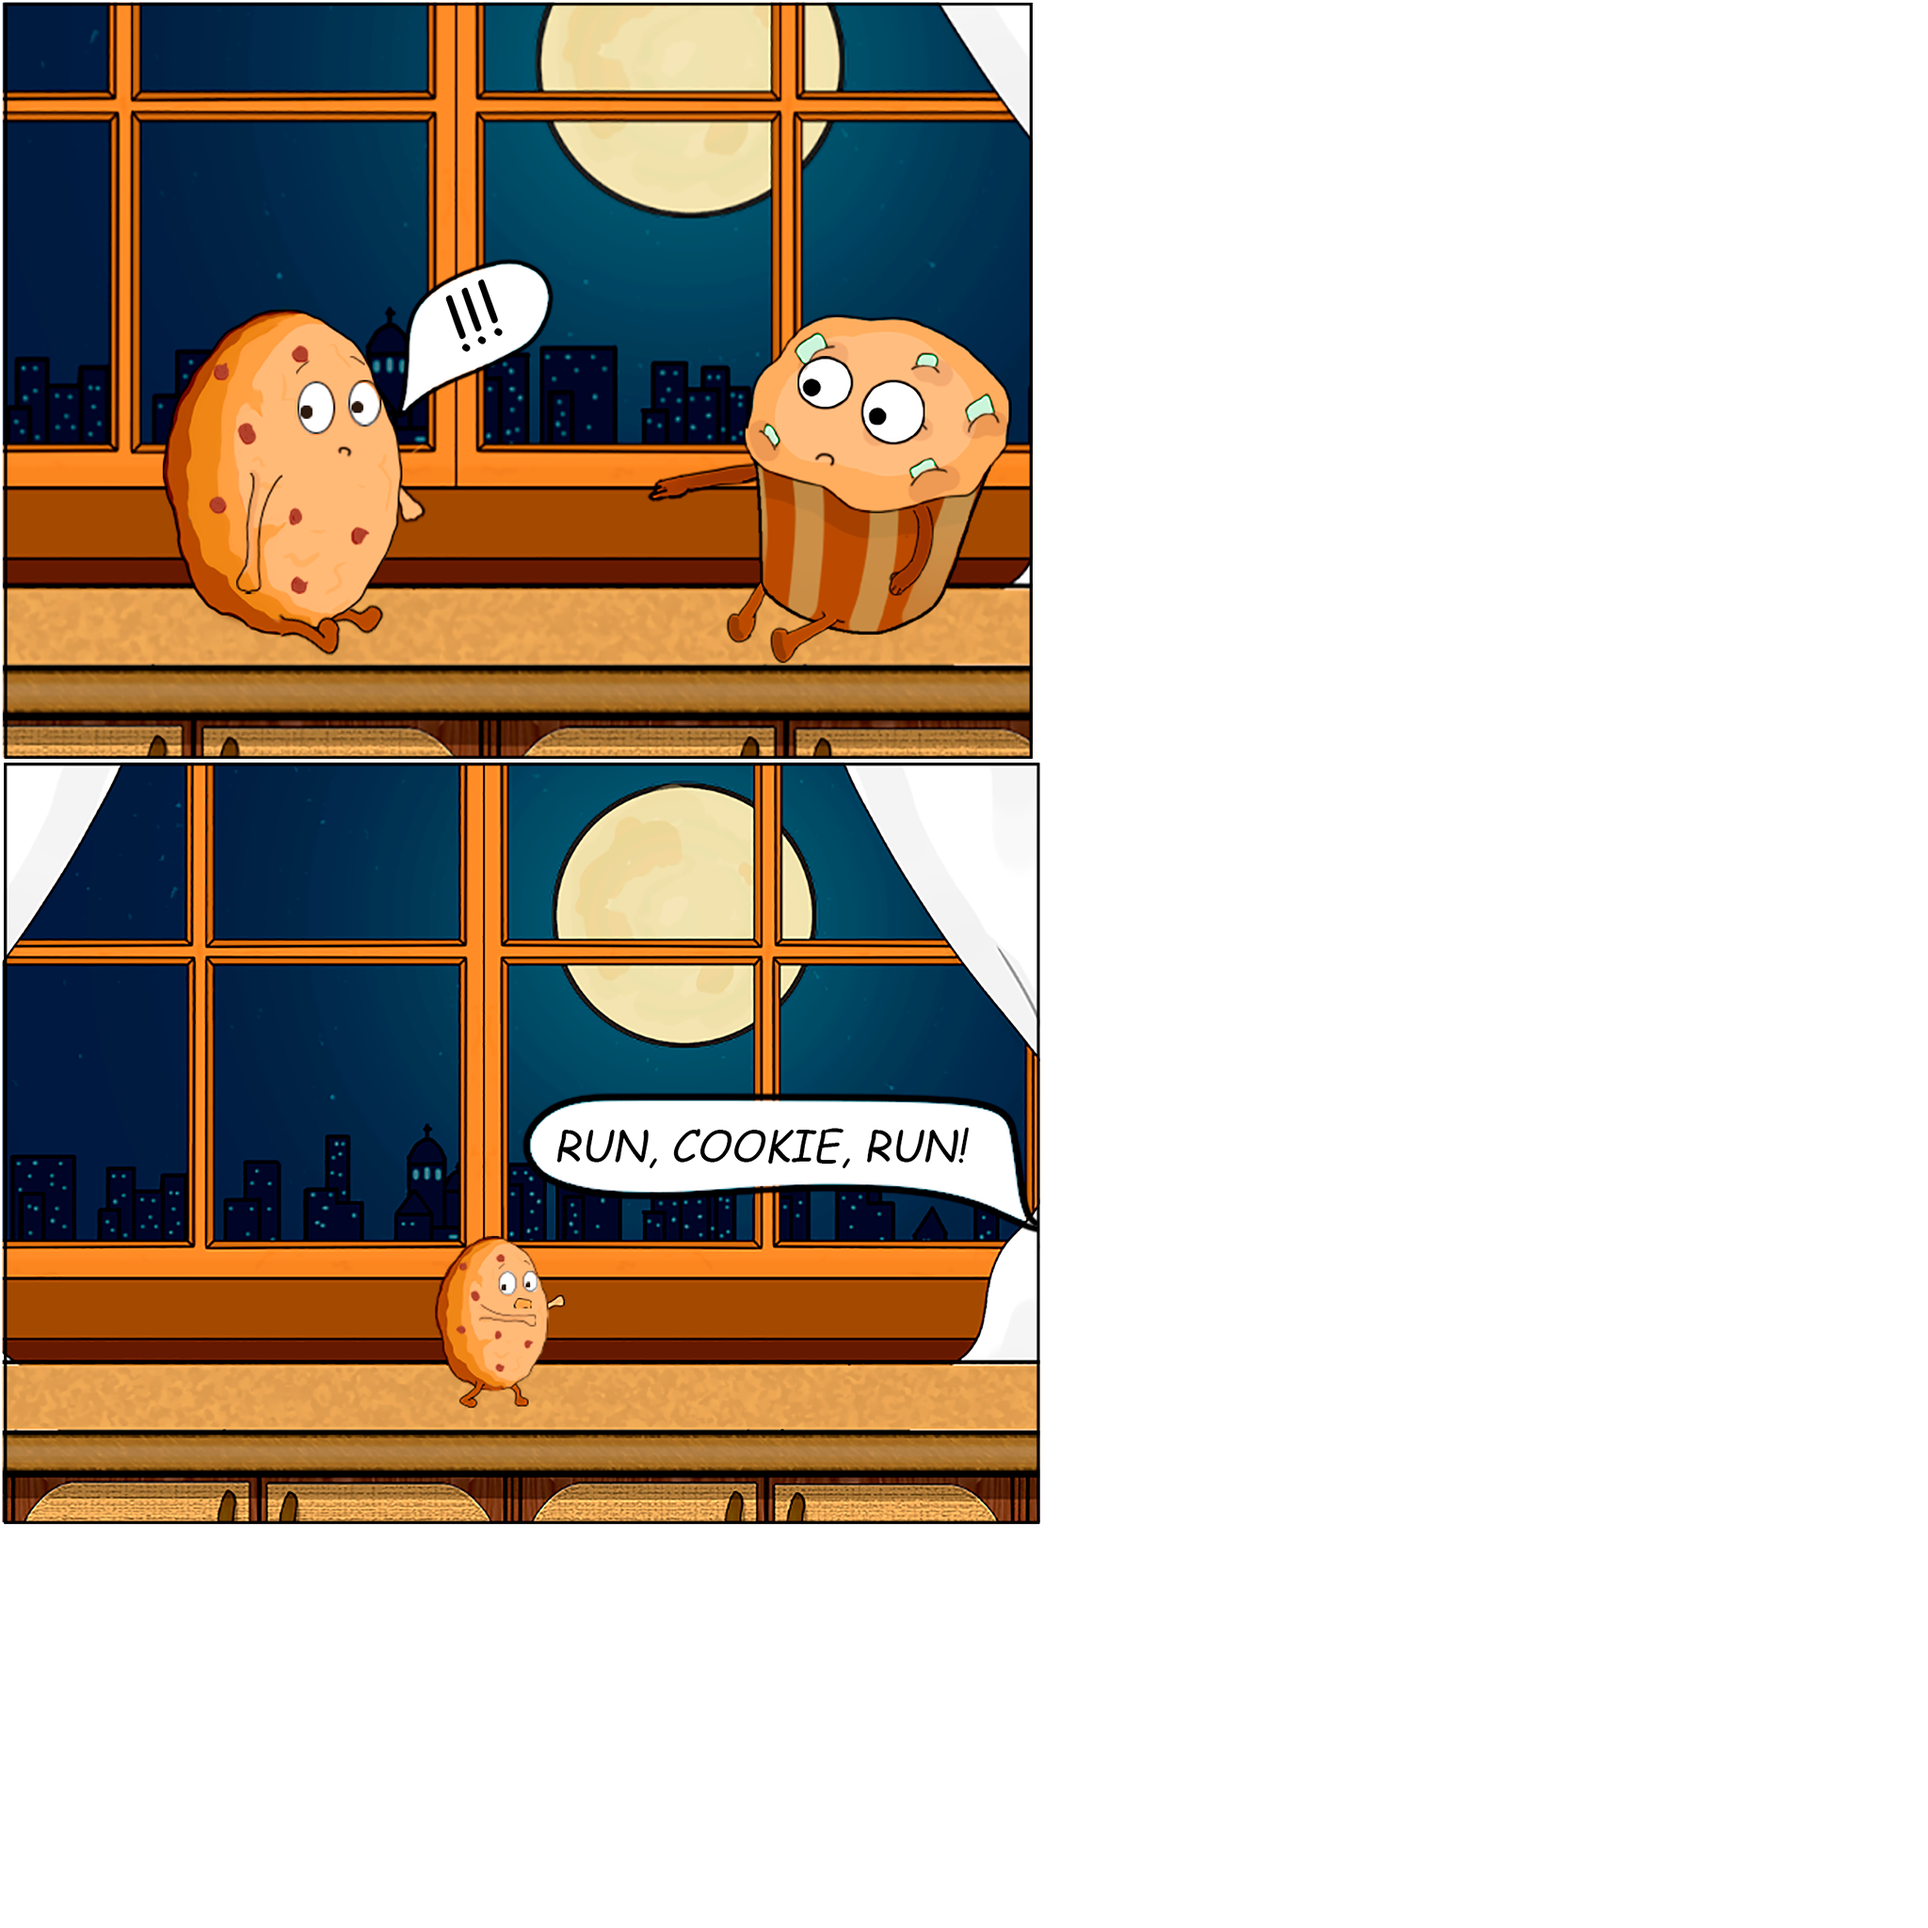
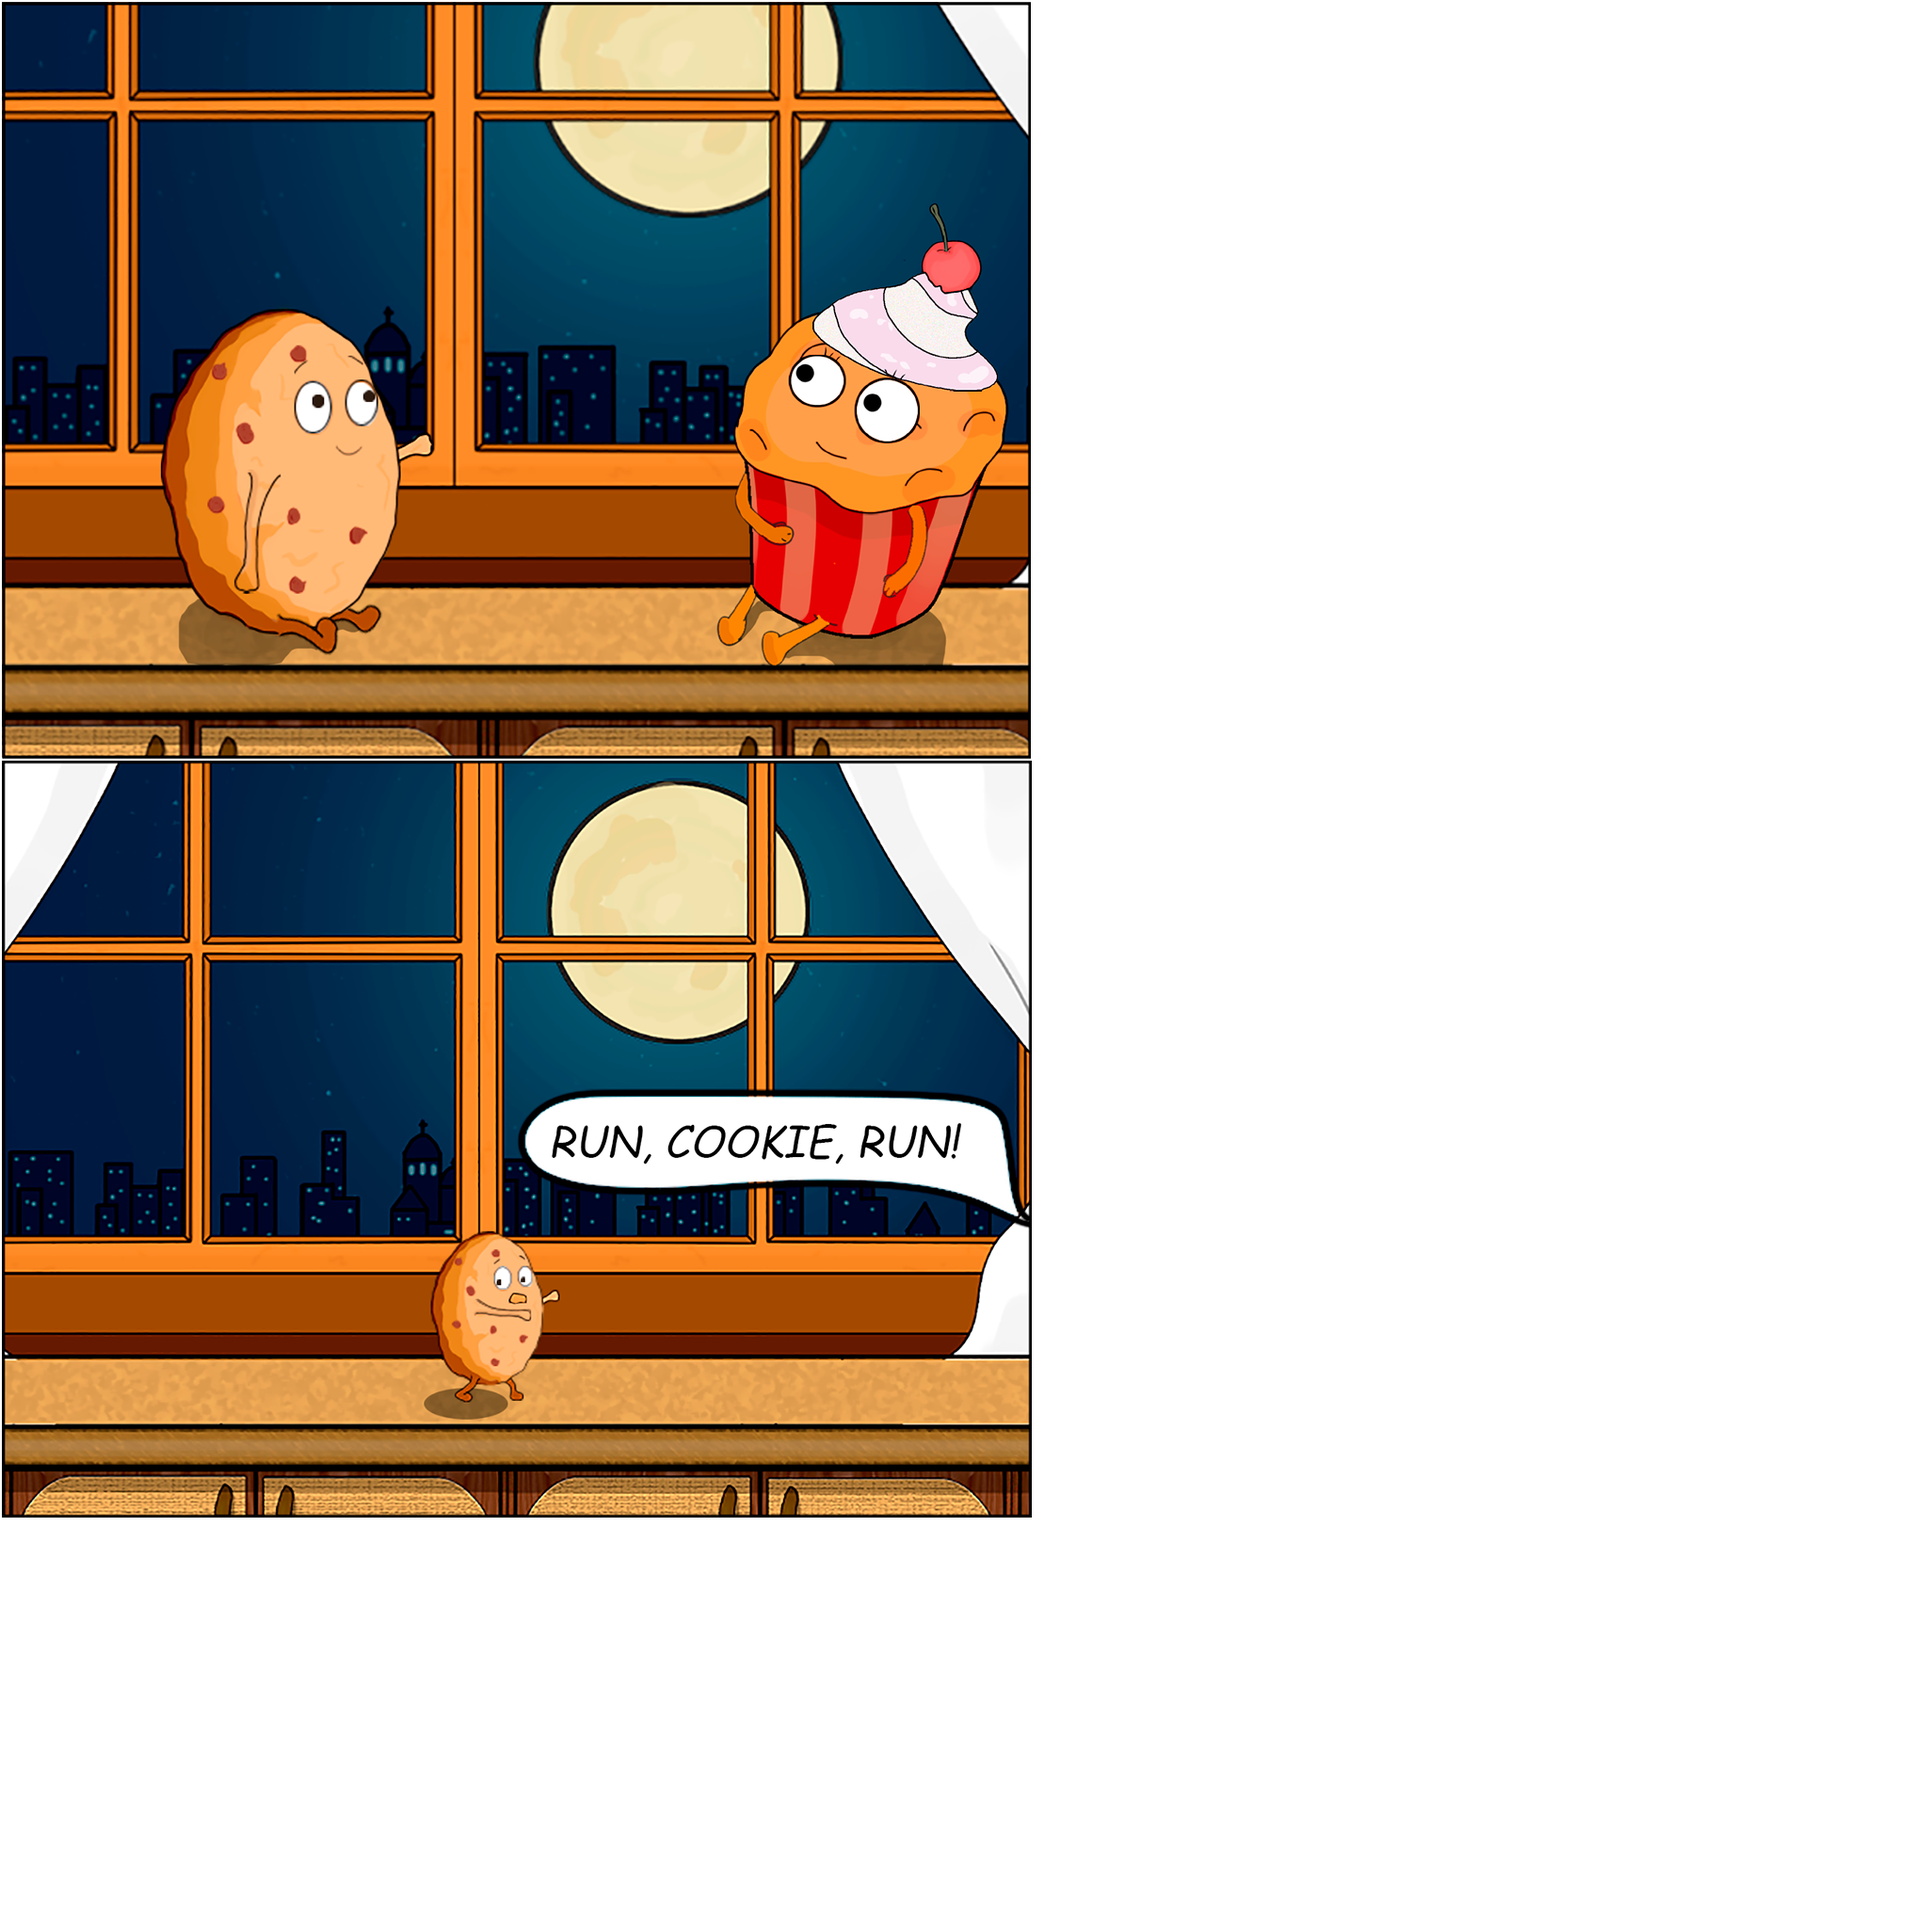
(feature) improve comics frames, delete background image

Changed region(s): [[0.0, 0.3438, 0.5625, 0.8125], [0.0, 0.0, 0.5312, 0.3438], [0.0938, 0.25, 0.1875, 0.3438]]

diff --git a/core/src/com/mygdx/game/actors/comics/ComicsFrame.kt b/core/src/com/mygdx/game/actors/comics/ComicsFrame.kt
@@ -6,6 +6,7 @@ import com.badlogic.gdx.graphics.Color
 import com.badlogic.gdx.graphics.Texture
 import com.badlogic.gdx.graphics.g2d.Batch
 import com.badlogic.gdx.math.Interpolation
+import com.badlogic.gdx.scenes.scene2d.Touchable
 import com.badlogic.gdx.scenes.scene2d.actions.Actions
 import com.mygdx.game.data.Descriptors
 import com.mygdx.game.api.Animated
@@ -13,9 +14,10 @@ import com.mygdx.game.api.AnimationType
 import com.mygdx.game.api.GameActor
 import com.mygdx.game.data.Assets
 
-abstract class Frame(manager: AssetManager) : GameActor(), Animated {
+abstract class ComicsFrame(manager: AssetManager) : GameActor(), Animated {
     protected val atlas = manager.get(Descriptors.comics)!!
     protected var region = atlas.findRegion(Assets.ComicsAtlas.FRAME_1)!!
+    private var shadow =  manager.get(Descriptors.environment).findRegion(Assets.EnvironmentAtlas.BLACK)
     protected val finalScale = 0.62f
     protected val framePadding = 30f
 
@@ -28,10 +30,15 @@ abstract class Frame(manager: AssetManager) : GameActor(), Animated {
         y = (Gdx.graphics.height - height) / 2f
         scaleX = 0.2F
         scaleY = 0.2F
+        color.a = 0f
+        touchable = Touchable.disabled
     }
 
     override fun draw(batch: Batch?, parentAlpha: Float) {
-        batch!!.color = Color.WHITE
+        batch!!.setColor(color.r, color.g, color.b, color.a)
+        batch.draw(shadow, 0f, 0f, Gdx.graphics.width.toFloat(), Gdx.graphics.height.toFloat())
+        batch.setColor(color.r, color.g, color.b, 1f)
+        batch.color = Color.WHITE
         batch.draw(region, x,  y, 0f, 0f, width, height, scaleX, scaleY, rotation)
     }
 
@@ -44,12 +51,14 @@ abstract class Frame(manager: AssetManager) : GameActor(), Animated {
                        Actions.parallel(
                                Actions.scaleTo(1f, 1f, 1f, Interpolation.smooth),
                                Actions.moveTo(x, y, 0.3f, Interpolation.smooth),
-                               Actions.repeat(3, Actions.rotateTo(360f, 0.5f))
+                               Actions.repeat(3, Actions.rotateTo(360f, 0.5f)),
+                               Actions.alpha(0.8f, 1f)
                        ),
                         Actions.delay(1f),
                         Actions.parallel(
                                 Actions.scaleTo(finalScale, finalScale, animDuration),
-                                Actions.moveTo(getFinalMoveX(), getFinalMoveY(), animDuration)
+                                Actions.moveTo(getFinalMoveX(), getFinalMoveY(), animDuration),
+                                Actions.alpha(0f, animDuration)
                         )
                )
             }

diff --git a/core/src/com/mygdx/game/screens/ComicsScreen.kt b/core/src/com/mygdx/game/screens/ComicsScreen.kt
@@ -42,10 +42,10 @@ class ComicsScreen(params: Array<out Any>) : Screen {
 
     private fun addActorsToStage() {
         val background = Background(manager)
-        val frame1 = Frame1(manager, background)
-        val frame2 = Frame2(manager, frame1)
-        val frame3 = Frame3(manager, frame1)
-        val frame4 = Frame4(manager, frame2, frame3)
+        val frame1 = ComicsFrame1(manager, background)
+        val frame2 = ComicsFrame2(manager, frame1)
+        val frame3 = ComicsFrame3(manager, frame1)
+        val frame4 = ComicsFrame4(manager, frame2, frame3)
         val shadow = Shadow(manager)
 
         stage.apply {
@@ -60,15 +60,21 @@ class ComicsScreen(params: Array<out Any>) : Screen {
         var isComicsShowed = false
         shadow.animate(AnimationType.SHOW_ON_SCENE)
         frame1.animate(AnimationType.SHOW_ON_SCENE,
-                Runnable { frame2.animate(AnimationType.SHOW_ON_SCENE,
-                        Runnable { frame3.animate(AnimationType.SHOW_ON_SCENE,
-                                Runnable { frame4.animate(AnimationType.SHOW_ON_SCENE,
-                                        Runnable { isComicsShowed = true }) }) }) })
+                Runnable {
+                    frame2.animate(AnimationType.SHOW_ON_SCENE,
+                            Runnable {
+                                frame3.animate(AnimationType.SHOW_ON_SCENE,
+                                        Runnable {
+                                            frame4.animate(AnimationType.SHOW_ON_SCENE,
+                                                    Runnable { isComicsShowed = true })
+                                        })
+                            })
+                })
 
         AudioManager.play(AudioManager.MusicApp.MAIN_MENU_MUSIC)
 
         addClickListener(background) {
-            if(!isComicsShowed) return@addClickListener
+            if (!isComicsShowed) return@addClickListener
             AudioManager.stopAll()
             shadow.animate(AnimationType.HIDE_FROM_SCENE, Runnable {
                 ScreenManager.setScreen(ScreenManager.Screens.GAME_SCREEN, manager)

diff --git a/core/src/com/mygdx/game/actors/comics/Background.kt b/core/src/com/mygdx/game/actors/comics/Background.kt
@@ -10,16 +10,13 @@ import com.mygdx.game.api.GameActor
 import com.mygdx.game.data.Assets
 
 class Background(manager: AssetManager) : GameActor() {
-    private val atlas = manager.get(Descriptors.comics)
-    private val background = atlas.findRegion(Assets.ComicsAtlas.BACKGROUND)
     private val environmentAtlas = manager.get(Descriptors.environment)
     private val white = environmentAtlas.findRegion(Assets.EnvironmentAtlas.WHITE)
 
     init {
-        val screenWidth = Config.WIDTH_GAME
-        width = background.originalWidth.toFloat()
-        height = background.originalHeight.toFloat()
-        x = (screenWidth - width) / 2f
+        width = Gdx.graphics.width.toFloat()
+        height = Gdx.graphics.height.toFloat()
+        x = 0f
         y = 0f
     }
 
@@ -30,7 +27,6 @@ class Background(manager: AssetManager) : GameActor() {
 
     override fun draw(batch: Batch?, parentAlpha: Float) {
         batch!!.color = Color.WHITE
-        batch.draw(white, 0f,  0f, Gdx.graphics.width.toFloat(), Gdx.graphics.height.toFloat())
-        batch.draw(background, x,  y, width, height)
+        batch.draw(white, x,  y, width, height)
     }
 }

diff --git a/core/src/com/mygdx/game/actors/comics/ComicsFrame2.kt b/core/src/com/mygdx/game/actors/comics/ComicsFrame2.kt
@@ -1,0 +1,17 @@
+package com.mygdx.game.actors.comics
+
+import com.badlogic.gdx.assets.AssetManager
+import com.mygdx.game.data.Assets
+
+class ComicsFrame2(manager: AssetManager, private val comicsFrame1: ComicsFrame) : ComicsFrame(manager) {
+
+    init {
+        region = atlas.findRegion(Assets.ComicsAtlas.FRAME_2)
+    }
+
+    override fun getFinalMoveX(): Float{
+        return comicsFrame1.getFinalMoveX() + (comicsFrame1.width * finalScale) + framePadding
+    }
+    override fun getFinalMoveY() = comicsFrame1.getFinalMoveY()
+
+}

diff --git a/core/src/com/mygdx/game/actors/comics/ComicsFrame4.kt b/core/src/com/mygdx/game/actors/comics/ComicsFrame4.kt
@@ -1,0 +1,16 @@
+package com.mygdx.game.actors.comics
+
+import com.badlogic.gdx.assets.AssetManager
+import com.mygdx.game.data.Assets
+
+class ComicsFrame4(manager: AssetManager, private val comicsFrame2: ComicsFrame, private val comicsFrame3: ComicsFrame) : ComicsFrame(manager) {
+
+    init {
+        region = atlas.findRegion(Assets.ComicsAtlas.FRAME_4)
+    }
+
+    override fun getFinalMoveX() = comicsFrame2.getFinalMoveX()
+
+    override fun getFinalMoveY() = comicsFrame3.getFinalMoveY()
+
+}

diff --git a/core/src/com/mygdx/game/actors/comics/ComicsFrame3.kt b/core/src/com/mygdx/game/actors/comics/ComicsFrame3.kt
@@ -1,0 +1,16 @@
+package com.mygdx.game.actors.comics
+
+import com.badlogic.gdx.assets.AssetManager
+import com.mygdx.game.data.Assets
+
+class ComicsFrame3(manager: AssetManager, private val comicsFrame1: ComicsFrame) : ComicsFrame(manager) {
+
+    init {
+        region = atlas.findRegion(Assets.ComicsAtlas.FRAME_3)
+    }
+
+    override fun getFinalMoveX() = comicsFrame1.getFinalMoveX()
+
+    override fun getFinalMoveY() = comicsFrame1.y - (height * finalScale) - framePadding
+
+}

diff --git a/core/src/com/mygdx/game/actors/comics/ComicsFrame1.kt b/core/src/com/mygdx/game/actors/comics/ComicsFrame1.kt
@@ -1,0 +1,11 @@
+package com.mygdx.game.actors.comics
+
+import com.badlogic.gdx.assets.AssetManager
+import com.mygdx.game.Config
+import com.mygdx.game.api.GameActor
+
+class ComicsFrame1(manager: AssetManager, private val background: GameActor) : ComicsFrame(manager) {
+
+    override fun getFinalMoveX(): Float = (Config.WIDTH_GAME - ((width * finalScale) * 2) - framePadding) / 2
+    override fun getFinalMoveY(): Float = background.top - (height * finalScale) - framePadding
+}
